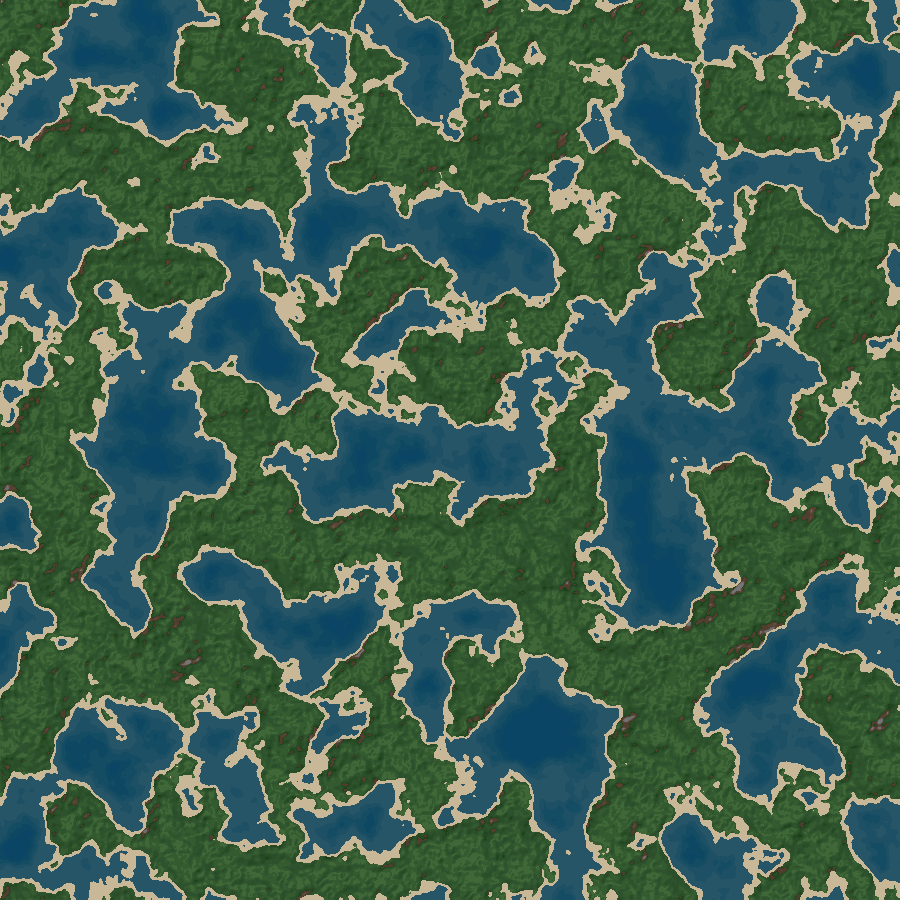
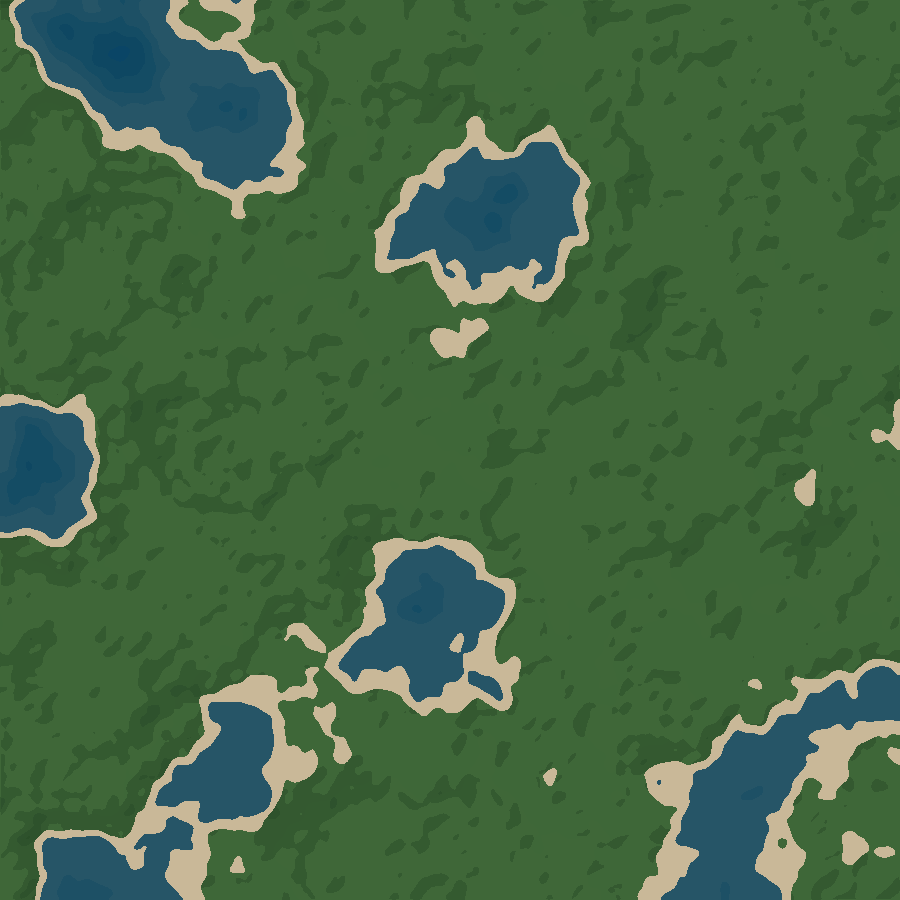
Ajout menu choix et chargement

diff --git a/main.py b/main.py
@@ -1,4 +1,5 @@
 ###################################importation###############################################################
+import sys 
 import pygame
 import main_var
 import initialisation
@@ -19,28 +20,29 @@ var_pour_gen = 1
 var_lance_jeu = True
 
 tab_hauteur,shape,seed = fondchargement.loadjeu(True)
-screen = pygame.display.set_mode(main_var.size)
-color=(63, 34, 4)
-screen.fill(color)
-background = pygame.image.load("carte_couleur.png")
+
 
 tab = initialisation.cree_table()
 ###################################def variable##############################################################
 
 ###################################def personnage##############################################################
 joueurchoix,var_lance_jeu=menuchoix.menujeu()
+screen = pygame.display.set_mode(main_var.size)
+color=(63, 34, 4)
+screen.fill(color)
+background = pygame.image.load("carte_couleur.png")
 
-Joueur1 = joueur.joueur()
-Joueur2 = joueur.joueur()
+Joueur1 = joueur()
+Joueur2 = joueur()
 
 if joueurchoix[0] == "info":
-    Joueur1= joueur.createClasse("info")
+    Joueur1.createClasse("info")
 else:
-    Joueur1= joueur.createClasse("math")
+    Joueur1.createClasse("math")
 if joueurchoix[1] == "info":
-    Joueur2= joueur.createClasse("info")
+    Joueur2.createClasse("info")
 else:
-    Joueur2= joueur.createClasse("math")
+    Joueur2.createClasse("math")
 
 joueurs=[Joueur1,Joueur2]
 functions.init_player(joueurs,tab)
@@ -102,6 +104,8 @@ while var_lance_jeu == True:
         if event.type == pygame.QUIT:
             var_lance_jeu = False 
             pygame.quit()
+            sys.exit()
+            
     #info_jeu#
         position_souris = pygame.mouse.get_pos()
         if event.type == pygame.MOUSEBUTTONDOWN:        #quand le joeur clique
@@ -112,6 +116,7 @@ while var_lance_jeu == True:
                 varPA=varPA-1
             pos_grid = functions.get_pos_grid(position_souris)
             h = functions.get_height_case(pos_grid,tab_hauteur)
+            print(h)
             if boutton_passer_tour.isOver(position_souris):
                 varPA = 5
                 tour=boutton.interaction_fin_de_tour(tour)      #programme qui gere l'interaction fin de tour

diff --git a/functions.py b/functions.py
@@ -25,7 +25,7 @@ def create_noise_map(game_seed):
     return t,shape
 
 def get_map_image(game_seed):
-    t, shape, seed =  map_2D.func_map_color_perlin(shape=(900,900),scale=100.0,octaves=5, persistence=0.5,lacunarity=2.0,seed=game_seed,name='carte_couleur.png',hauteur_ocean=0,facteur_denivele=0.1,couleur_option='Réaliste')
+    t, shape, seed =  map_2D.func_map_color_perlin(shape=(900,900),scale=300.0,octaves=5, persistence=0.5,lacunarity=2.0,seed=game_seed,name='carte_couleur.png',hauteur_ocean=0.013,facteur_denivele=0.1,couleur_option='Réaliste')
     print("Map créée")
     return t,shape,seed
 
@@ -41,7 +41,7 @@ def get_height_case(case,t):
     if x<30 and y<30:
         for i in range(30):
             for j in range(30):
-                val = (t[y*30 +i][x*30 +j])
+                val = (t[x*30 +i][y*30 +j])
                 somme += val
     return somme/900
 
